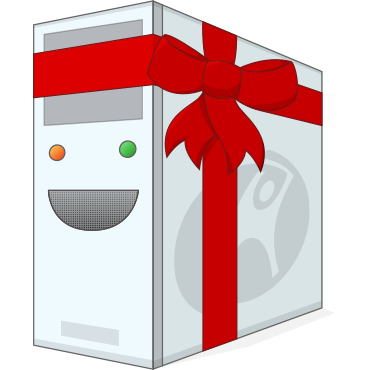
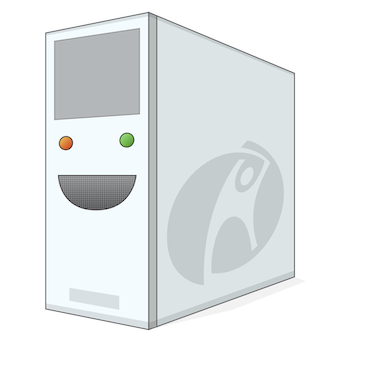
Remove bow

diff --git a/source/speed/us/index.html b/source/speed/us/index.html
@@ -6,7 +6,7 @@
 <head>
     <meta charset="utf-8">
     <meta http-equiv="X-UA-Compatible" content="IE=edge,chrome=1">
-    <title>Rackspace 300$ Cloud Credit - US</title>
+    <title>Rackspace $300 Cloud Credit - US</title>
     <meta name="description" content="">
 
     <!-- Place favicon.ico and apple-touch-icon.png in the root directory -->
@@ -60,7 +60,7 @@
   <div class="hero-unit">
     <div class="container">
       <div class="row">
-        <h1>A holiday Gift from Rackspace!</h1>
+        <h1>A gift to you, from Rackspace!</h1>
         <p class="lead">
           Up to <span class="red">$300</span> of Cloud Services Free
           just for you - and all your friends
@@ -78,9 +78,8 @@
     <div class="span8">
       <div id="community">
         <header id="comm_header" class="section-header">
-          <h1 class="section-title lite">With the holiday season around the corner,
-            we would like to <span class="red">give you</span> something
-            <span class="red">special</span>!</h1>
+          <h1 class="section-title lite">Something <span class="red">special</span>,
+            just for <span class="red">you</span>!</h1>
           <p>
             When you sign up today, you will get USD $300 of cloud services
             FREE—that's up to USD $50 per month credit for six months on your

diff --git a/source/speed/index.html b/source/speed/index.html
@@ -60,7 +60,7 @@
   <div class="hero-unit">
     <div class="container">
       <div class="row">
-        <h1>A holiday Gift from Rackspace!</h1>
+        <h1>A gift to you, from Rackspace!</h1>
         <p class="lead">
           Up to <span class="red">$300</span> of Cloud Services Free
           just for you - and all your friends
@@ -78,9 +78,8 @@
     <div class="span8">
       <div id="community">
         <header id="comm_header" class="section-header">
-          <h1 class="section-title lite">With the holiday season around the corner,
-            we would like to <span class="red">give you</span> something
-            <span class="red">special</span>!</h1>
+          <h1 class="section-title lite">Something <span class="red">special</span>,
+            just for <span class="red">you</span>!</h1>
           <p>
             When you sign up today, you will get USD $300 of cloud services
             FREE—that's up to USD $50 per month credit for six months on your

diff --git a/source/speed/uk/index.html b/source/speed/uk/index.html
@@ -60,7 +60,7 @@
   <div class="hero-unit">
     <div class="container">
       <div class="row">
-        <h1>A holiday Gift from Rackspace!</h1>
+        <h1>A gift to you, from Rackspace!</h1>
         <p class="lead">
           Up to <span class="red">£180</span> of Cloud Services Free
           just for you - and all your friends
@@ -78,9 +78,8 @@
     <div class="span8">
       <div id="community">
         <header id="comm_header" class="section-header">
-          <h1 class="section-title lite">With the holiday season around the corner,
-            we would like to <span class="red">give you</span> something
-            <span class="red">special</span>!</h1>
+          <h1 class="section-title lite">Something <span class="red">special</span>,
+            just for <span class="red">you</span>!</h1>
           <p>
             When you sign up today, you will get £180 of cloud services
             FREE—that's up to £30 per month credit for six months on your
